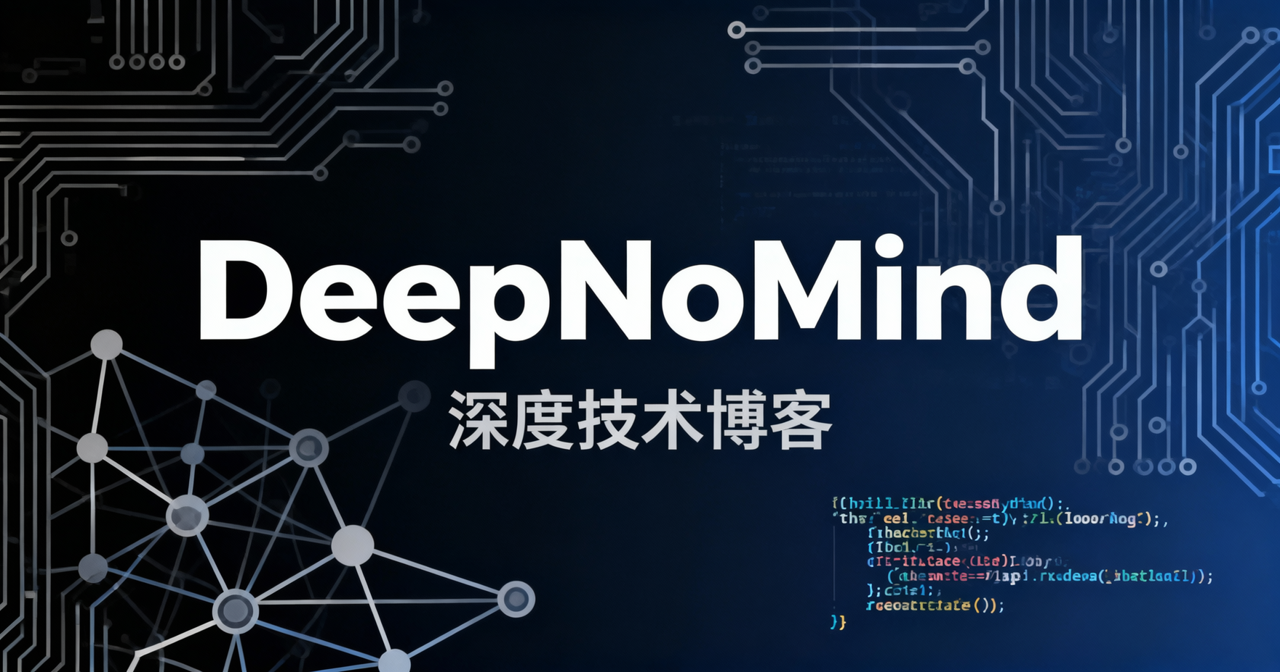
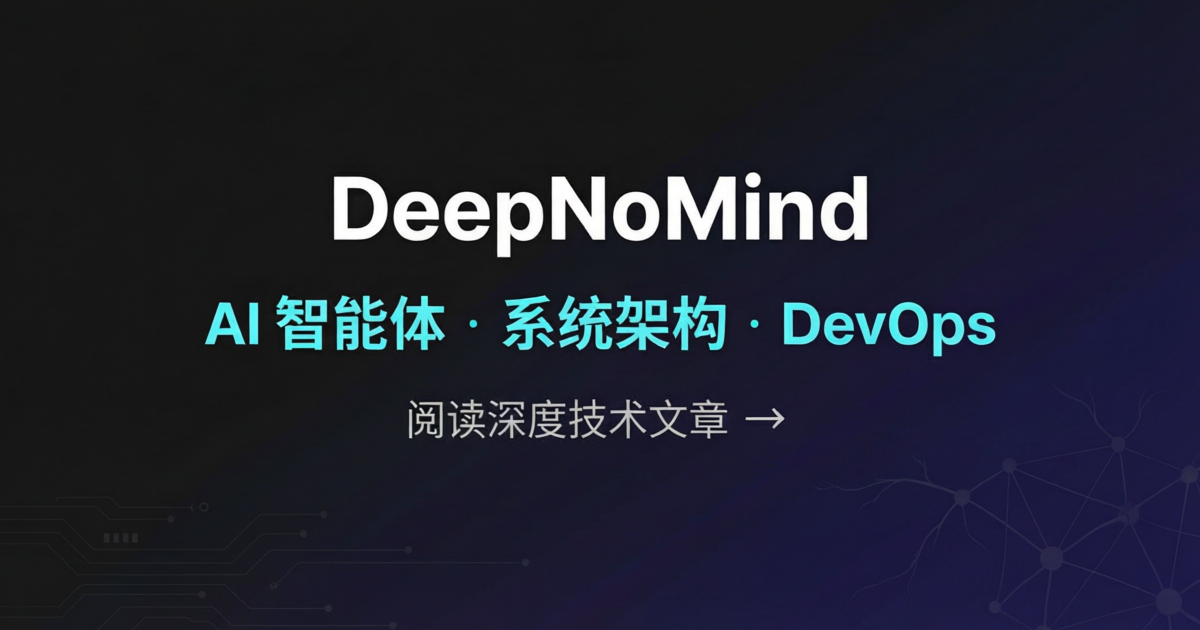
fix: expand site description and regenerate OG image to meet SEO standards
Expand siteMetadata.description from 15 to 60+ chars for better SERP snippets. Regenerate OG image at exact 1200x630 with call-to-action text, compress from 1MB to 672KB. Remove redundant '官方网站' from title.

Ultraworked with [Sisyphus](https://github.com/code-yeongyu/oh-my-openagent)

diff --git a/data/siteMetadata.js b/data/siteMetadata.js
@@ -1,9 +1,9 @@
 /** @type {import("pliny/config").PlinyConfig } */
 const siteMetadata = {
-  title: 'DeepNoMind 官方网站',
+  title: 'DeepNoMind',
   author: '俞凡',
   headerTitle: 'DeepNoMind 官方网站',
-  description: 'DeepNoMind 官方网站',
+  description: '俞凡的技术博客，专注于 AI 智能体、系统架构、软件工程和 DevOps 的深度分享，涵盖前端、后端、微服务等前沿技术的实战经验。',
   language: 'zh-CN',
   theme: 'system', // system, dark or light
   siteUrl: 'https://www.deepnomind.com',
